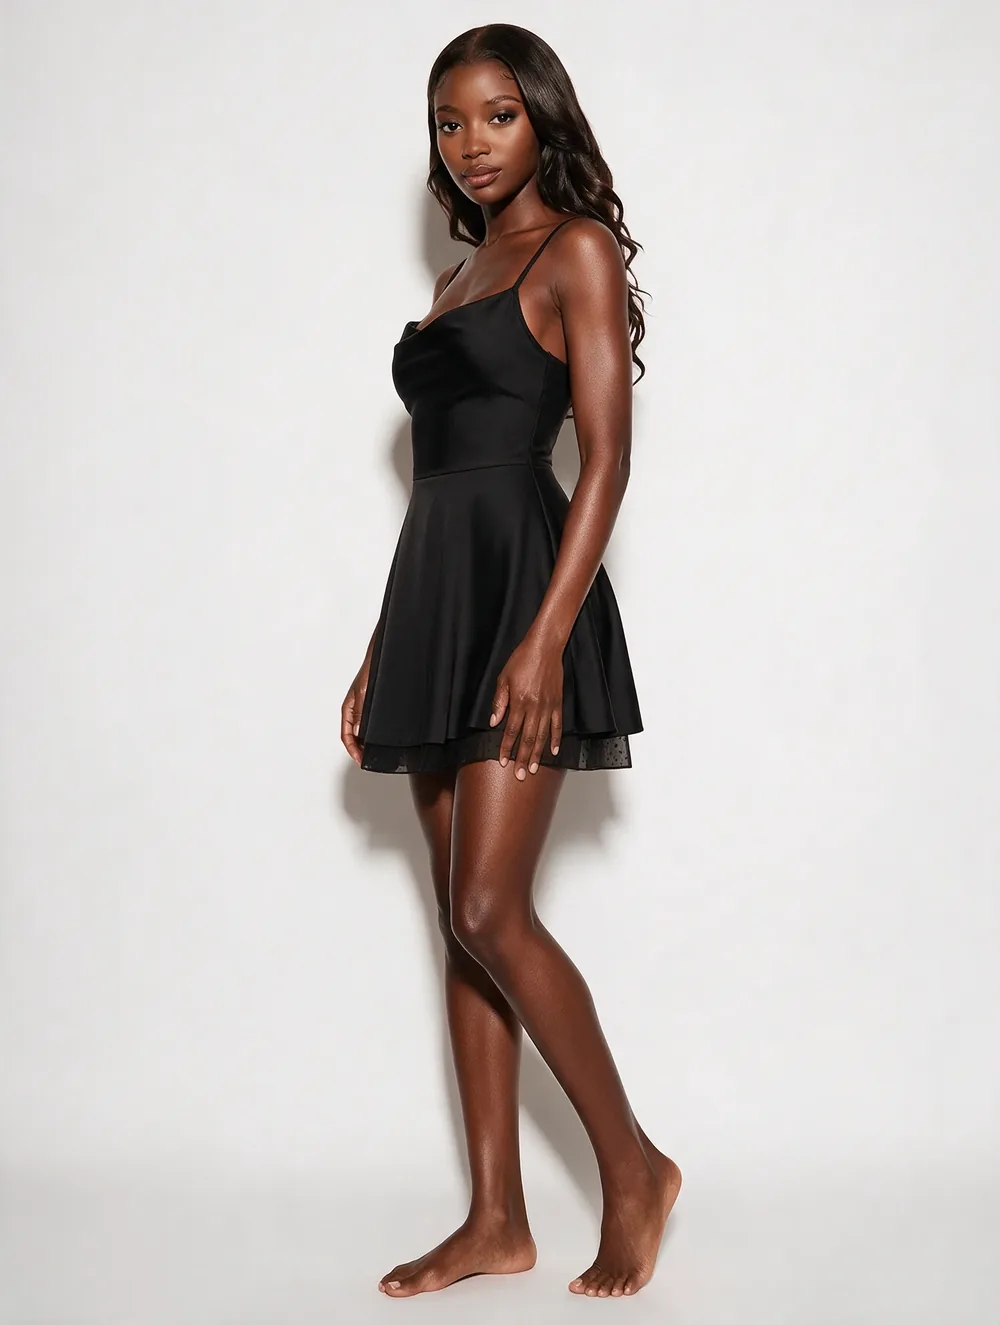
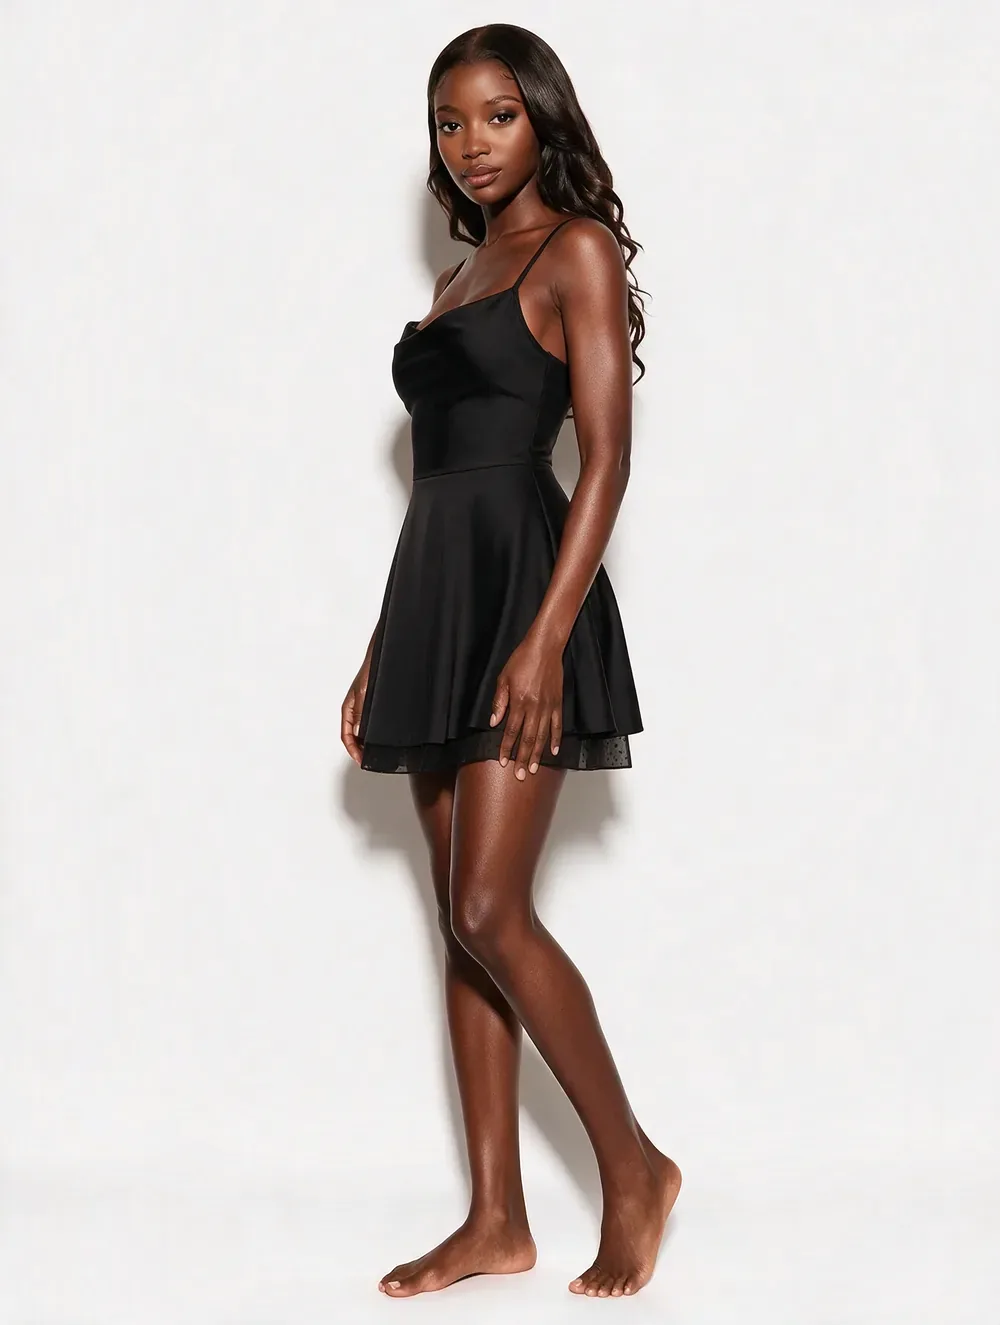
v142: dress photo backgrounds flattened
Joshua: the dress's background didn't match. Its photos were lit with a
radial falloff (bright behind the model, ~30 levels darker in the corners),
so the page's two-stop backdrop gradient could match top and bottom but
never the sides - the photo showed as a faint rectangle.
Fixed at source with a flat-field correction (no AI edit): a robust
polynomial fit of the backdrop plus a normalised-convolution pass, divided
out, so the backdrop is one tone edge to edge (corners and side edges within
1 level of the tone behind the model) while the model and dress keep their
pixels. The 9 model shots were swapped in Shopify with productUpdateMedia
(same media ids, variant links and filenames); the side/back shots took a
second pass to level the lighter floor sweep. Backdrops re-measured from
the live files; the 3 posed tiles flattened the same way.

Changed region(s): [[0.0, 0.8355, 1.0, 1.0], [0.0, 0.0, 0.062, 0.0619]]

diff --git a/src/lib/imageBackdrops.ts b/src/lib/imageBackdrops.ts
@@ -10,21 +10,21 @@
  * [t, b] — top colour, bottom colour. Equal values mean a flat backdrop. */
 
 export const BACKDROPS: Record<string, [string, string]> = {
-  "hf_20261005_215718_975bd71f-689e-43e9-b794-63083e6c4714_min.webp": ["#dedbdb", "#cbcbc7"],
-  "hf_20261005_215222_4af7a46b-3b49-44ee-a4cd-a74986eab082_min.webp": ["#e2e1e0", "#d5d4d2"],
-  "hf_20261005_215544_3947c4d4-293c-4a68-ad4f-a8c4076676f2_min.webp": ["#d9d7d8", "#c8c7c8"],
-  "hf_20261005_215940_d96ae1f9-7d55-4cc3-aa2b-189a71ec6283_min.webp": ["#d8d6d6", "#e0dede"],
-  "hf_20261005_215939_e48a39b1-b0bc-446c-a1bf-e8f596637e3a_min.webp": ["#dedcda", "#dededc"],
+  "hf_20261005_215718_975bd71f-689e-43e9-b794-63083e6c4714_min.webp": ["#efeeed", "#f0efed"],
+  "hf_20261005_215222_4af7a46b-3b49-44ee-a4cd-a74986eab082_min.webp": ["#f1f1f0", "#f1f1f1"],
+  "hf_20261005_215544_3947c4d4-293c-4a68-ad4f-a8c4076676f2_min.webp": ["#eeeeee", "#efefee"],
+  "hf_20261005_215940_d96ae1f9-7d55-4cc3-aa2b-189a71ec6283_min.webp": ["#eae9e9", "#ebe9ea"],
+  "hf_20261005_215939_e48a39b1-b0bc-446c-a1bf-e8f596637e3a_min.webp": ["#eeeeee", "#efefef"],
   "hf_20261005_215719_26a9f971-bc74-4caf-9984-21c26b3c30d6_min.webp": ["#fafbfa", "#fbfbfa"],
   "hf_20261005_220056_fe2e9252-ef87-4ae0-86d5-4bf17eb44754_min.webp": ["#fafafa", "#fafafa"],
   "hf_20261005_215939_ab4e8ef8-cbb5-47d2-856b-dc5347f829d7_min.webp": ["#fefefe", "#fefefe"],
-  "hf_20261005_215544_83b38fa8-6126-4aba-8e43-6d26f4fe09a2_min.webp": ["#dcdada", "#e1e0e1"],
-  "hf_20261005_215222_1dfe74a4-c840-4c62-88b4-38148eaf97d7_min.webp": ["#e1e0e0", "#e3e1de"],
+  "hf_20261005_215544_83b38fa8-6126-4aba-8e43-6d26f4fe09a2_min.webp": ["#e9e9e9", "#eaeaea"],
+  "hf_20261005_215222_1dfe74a4-c840-4c62-88b4-38148eaf97d7_min.webp": ["#efefef", "#efefef"],
   "hf_20261005_215223_ba66d200-45f7-4b49-aba5-872e7c525ec6_min.webp": ["#fefefe", "#fefefe"],
   "hf_20261005_215719_e127856d-f48f-4a16-b5d7-dfbb095912bb_min.webp": ["#fbfbfb", "#fbfbfb"],
   "hf_20261005_215222_37bab788-1150-47c3-98ca-13e86f98013f_min.webp": ["#fefefe", "#fefefe"],
-  "hf_20261005_215939_54b54140-f678-4b62-be65-e9239e89cc9c_min.webp": ["#d3d1d1", "#d9dad9"],
-  "hf_20261005_215544_4fe806b5-3113-472e-a925-792c59e0d438_min.webp": ["#d9d5d6", "#dad7d8"],
+  "hf_20261005_215939_54b54140-f678-4b62-be65-e9239e89cc9c_min.webp": ["#e4e3e3", "#e4e4e4"],
+  "hf_20261005_215544_4fe806b5-3113-472e-a925-792c59e0d438_min.webp": ["#eae9e9", "#eaeaea"],
   "hf_20261005_215544_54400250-700f-4487-8c22-1323374b6279_min.webp": ["#fdfdfd", "#fdfdfd"],
   "hf_20261005_220056_5286cd6c-f2e0-4373-ad30-41339926bbe1_min.webp": ["#f9faf9", "#f9f9f9"],
   "hf_20261005_215719_25b51902-862b-42fc-b2a4-1cc30d863a86_min.webp": ["#fefefe", "#fefefe"],
